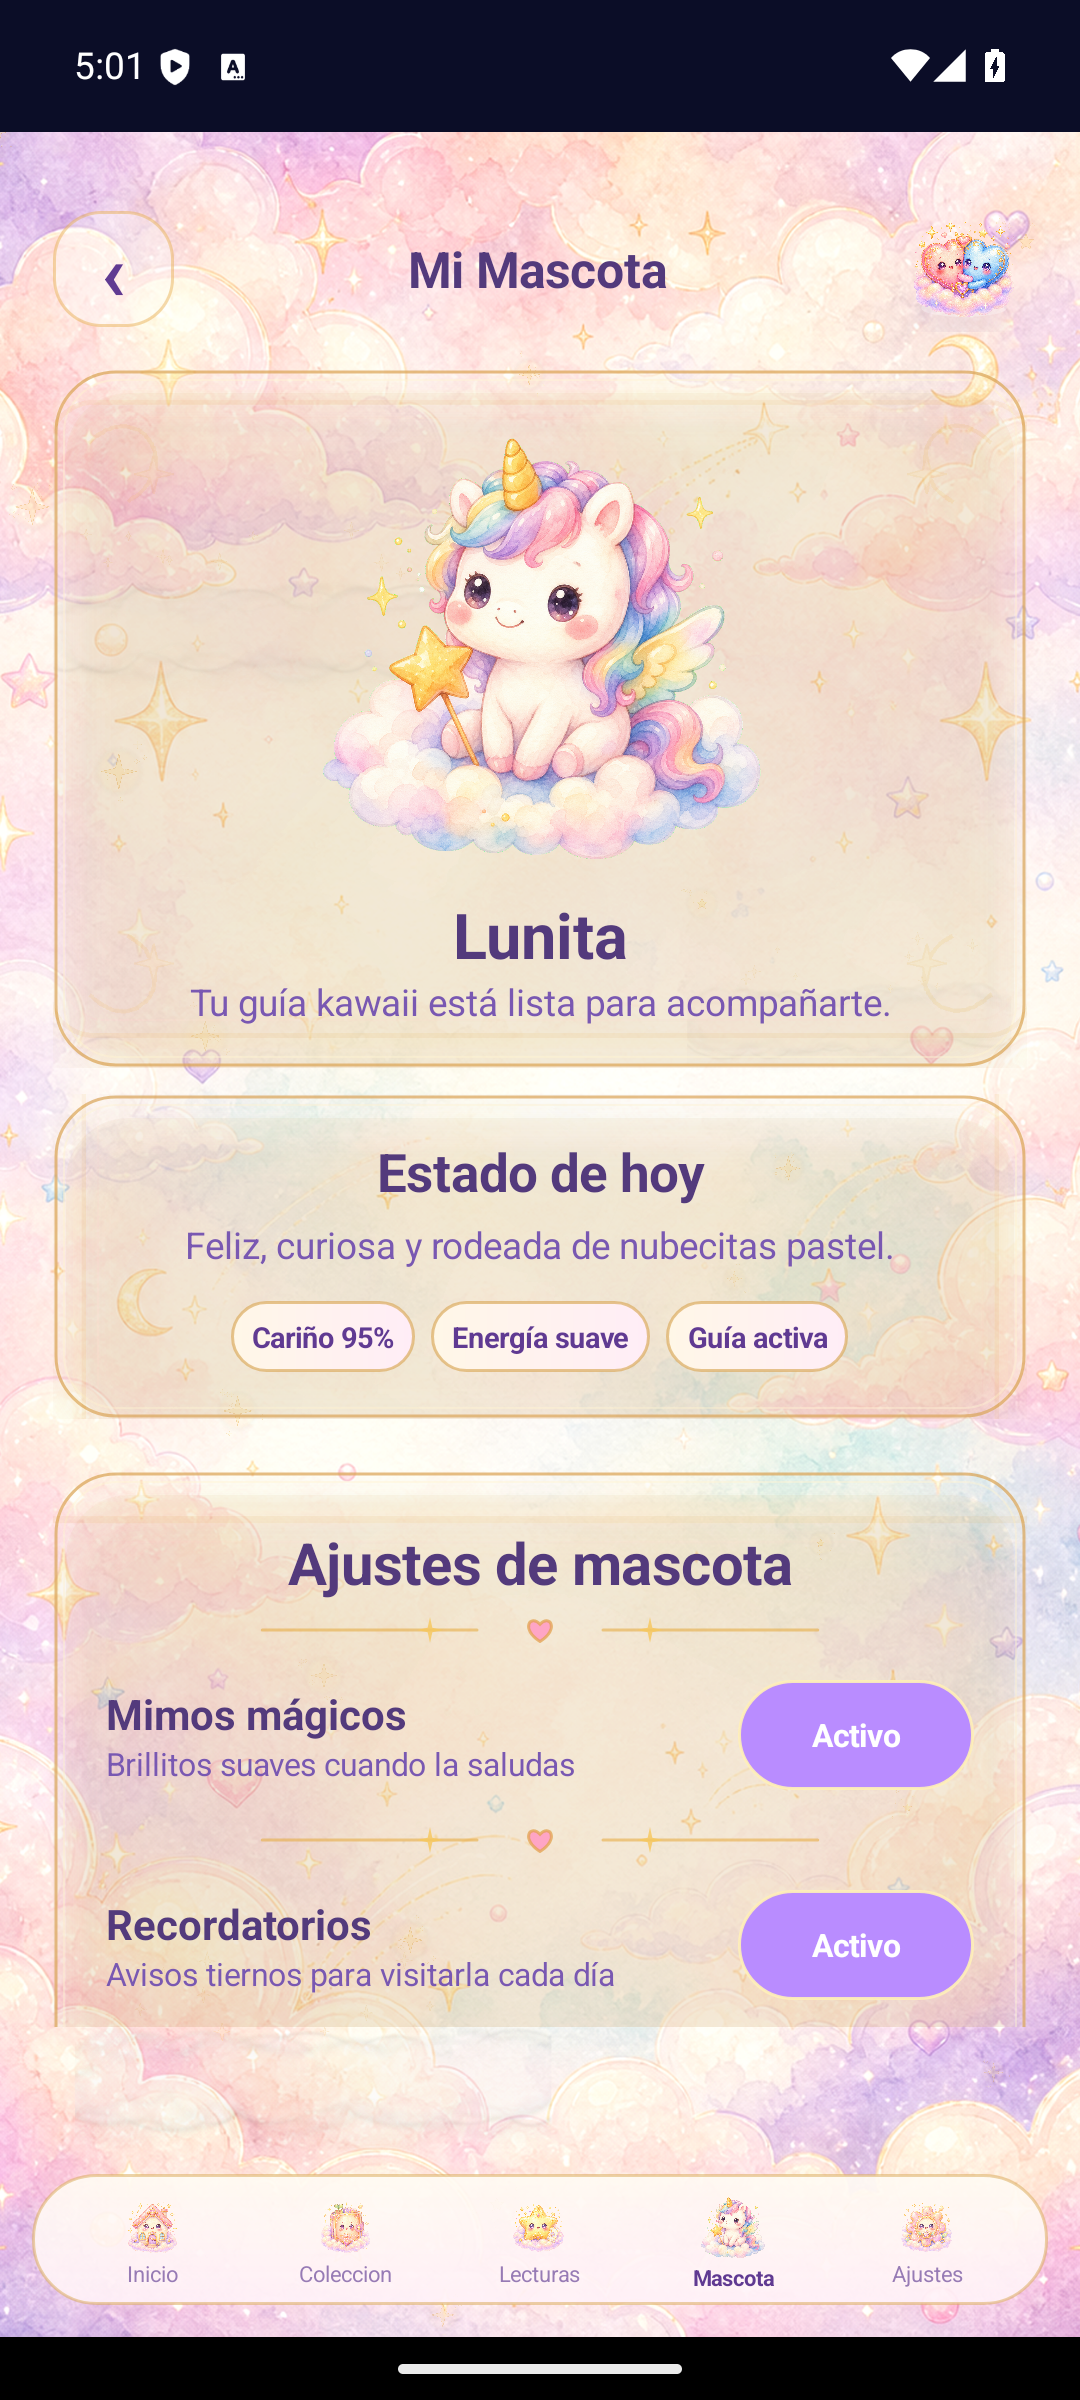
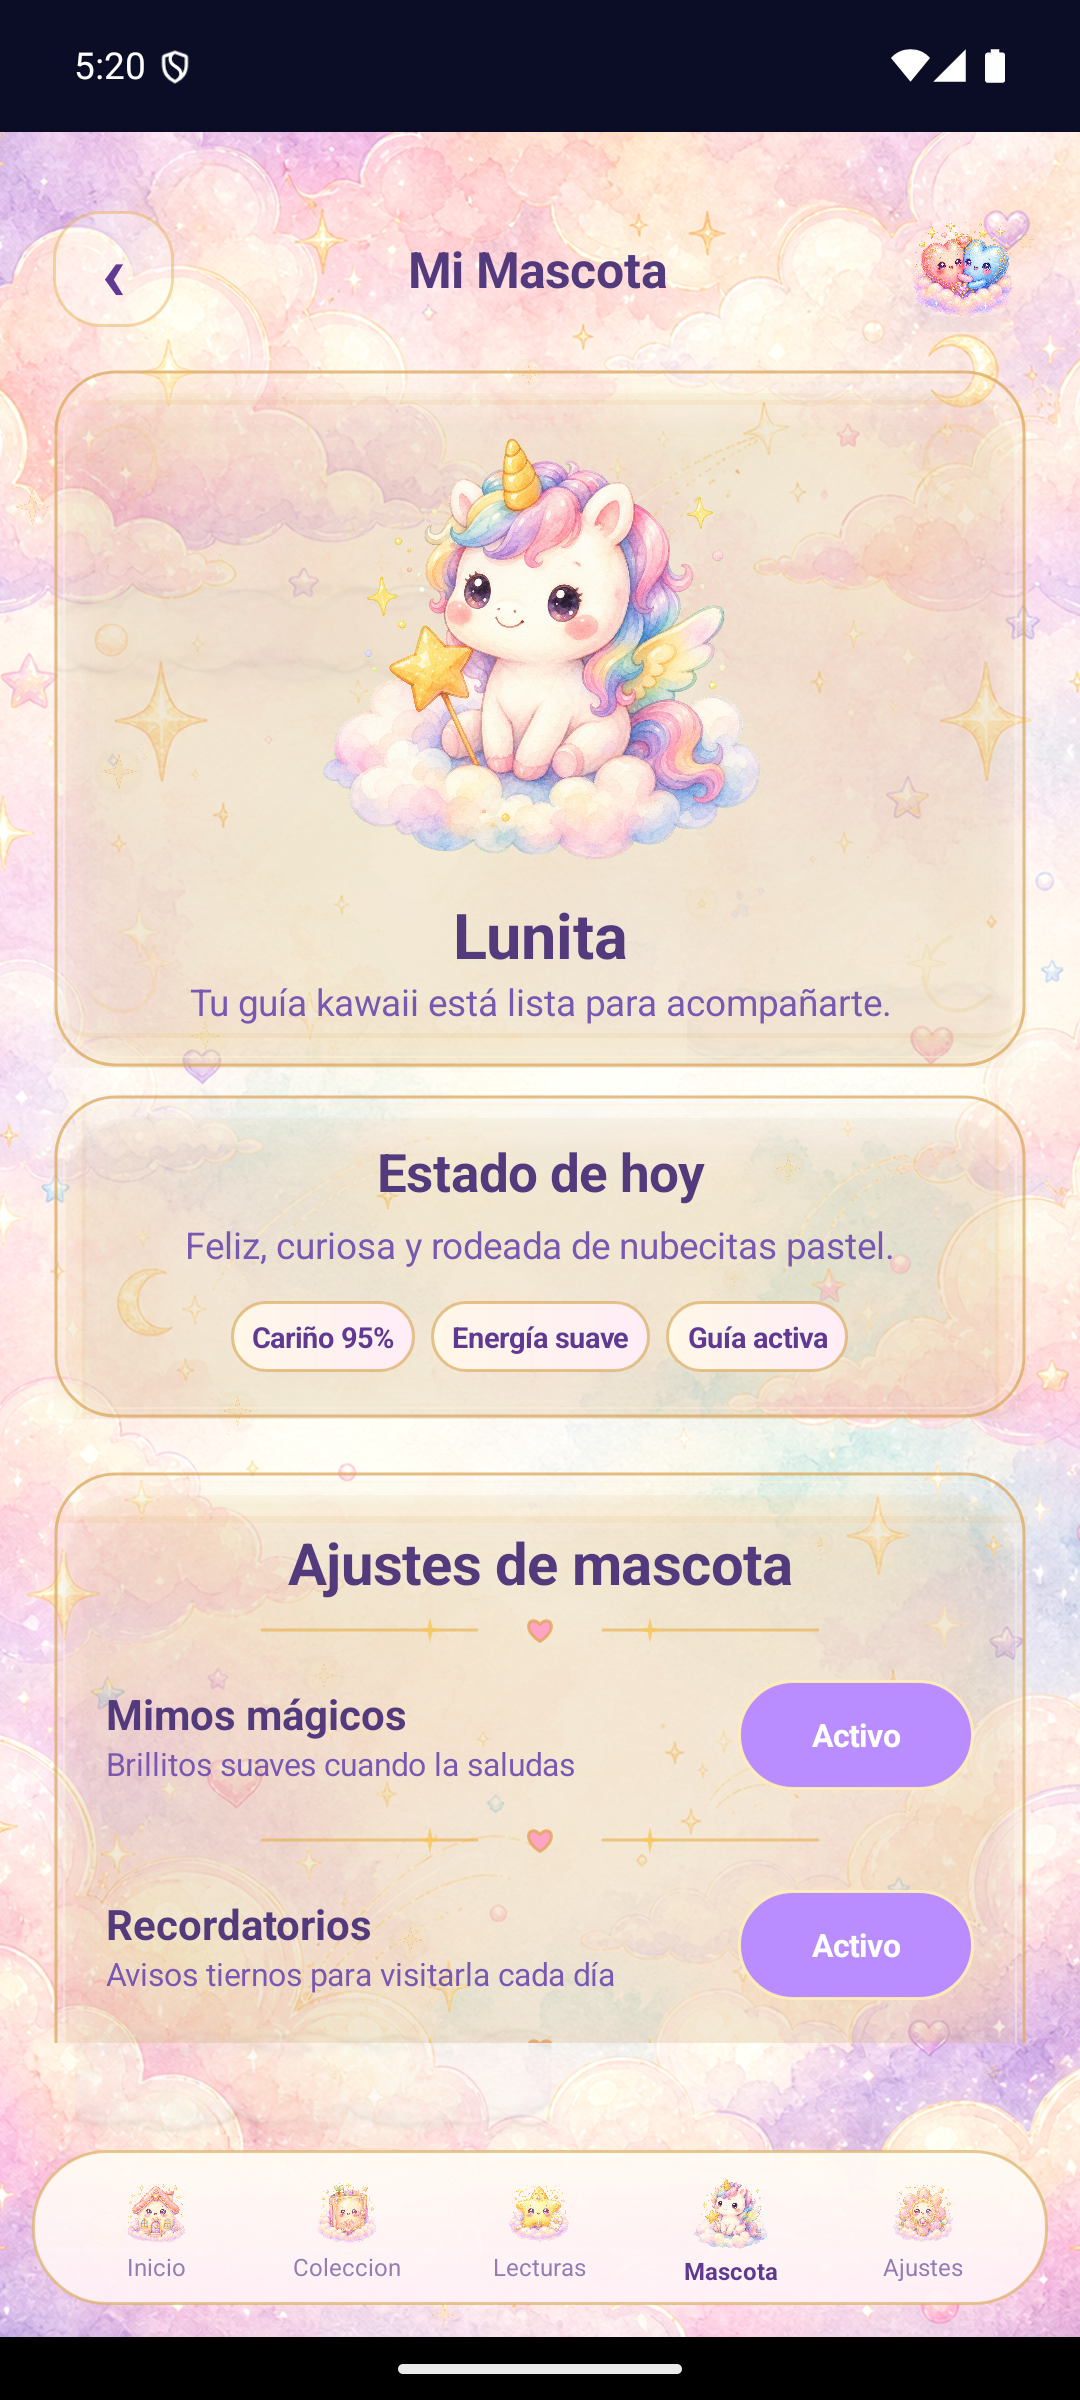
.
.

diff --git a/app/src/main/java/com/example/evaluacion4charlottegabriel/MainActivity.java b/app/src/main/java/com/example/evaluacion4charlottegabriel/MainActivity.java
@@ -35,17 +35,17 @@ public class MainActivity extends AppCompatActivity {
         scaffold.setQuietHomeBackground(true);
         scaffold.setBottomNav(DreamBottomNav.HOME, true);
         LinearLayout root = scaffold.content();
-        root.setPadding(DreamUi.dp(this, 6), DreamUi.dp(this, 34),
-                DreamUi.dp(this, 6), DreamUi.dp(this, 12));
+        root.setPadding(DreamUi.dp(this, 6), DreamUi.dp(this, 32),
+                DreamUi.dp(this, 6), DreamUi.dp(this, 10));
 
         addHeader(root);
 
-        TextView greeting = DreamUi.text(this, "\u00a1Hola, Charlotte! \u2728", 18, DreamColors.INK, Typeface.BOLD);
+        TextView greeting = DreamUi.text(this, "\u00a1Hola, Charlotte! \u2728", 20, DreamColors.INK, Typeface.BOLD);
         greeting.setGravity(Gravity.CENTER);
         greeting.setIncludeFontPadding(false);
         add(root, greeting, 7, 5);
 
-        TextView subtitle = DreamUi.text(this, "\u00bfQu\u00e9 mensaje m\u00e1gico\nte espera hoy?", 12, DreamColors.DEEP, Typeface.BOLD);
+        TextView subtitle = DreamUi.text(this, "\u00bfQu\u00e9 mensaje m\u00e1gico\nte espera hoy?", 13.2f, DreamColors.DEEP, Typeface.BOLD);
         subtitle.setGravity(Gravity.CENTER);
         subtitle.setIncludeFontPadding(false);
         subtitle.setLineSpacing(DreamUi.dp(this, 2), 1f);
@@ -88,18 +88,18 @@ public class MainActivity extends AppCompatActivity {
         header.setGravity(Gravity.CENTER_VERTICAL);
         header.setPadding(0, 0, 0, 0);
 
-        TextView menu = DreamUi.text(this, "\u2630", 18, 0xd65f3b98, Typeface.NORMAL);
+        TextView menu = DreamUi.text(this, "\u2630", 19.5f, 0xd65f3b98, Typeface.NORMAL);
         menu.setGravity(Gravity.CENTER);
         menu.setIncludeFontPadding(false);
-        header.addView(menu, new LinearLayout.LayoutParams(DreamUi.dp(this, 30), DreamUi.dp(this, 30)));
+        header.addView(menu, new LinearLayout.LayoutParams(DreamUi.dp(this, 34), DreamUi.dp(this, 34)));
 
         View spacer = new View(this);
         header.addView(spacer, new LinearLayout.LayoutParams(0, 1, 1f));
 
-        TextView bell = DreamUi.text(this, "\ud83d\udd14", 14, 0xd65f3b98, Typeface.NORMAL);
+        TextView bell = DreamUi.text(this, "\ud83d\udd14", 15.5f, 0xd65f3b98, Typeface.NORMAL);
         bell.setGravity(Gravity.CENTER);
         bell.setIncludeFontPadding(false);
-        header.addView(bell, new LinearLayout.LayoutParams(DreamUi.dp(this, 30), DreamUi.dp(this, 30)));
+        header.addView(bell, new LinearLayout.LayoutParams(DreamUi.dp(this, 34), DreamUi.dp(this, 34)));
         add(root, header, 0, 0);
     }
 
@@ -126,19 +126,19 @@ public class MainActivity extends AppCompatActivity {
         LinearLayout row = new LinearLayout(this);
         row.setOrientation(LinearLayout.HORIZONTAL);
         row.setGravity(Gravity.CENTER_VERTICAL);
-        row.setPadding(DreamUi.dp(this, 10), DreamUi.dp(this, 7), DreamUi.dp(this, 10), DreamUi.dp(this, 7));
+        row.setPadding(DreamUi.dp(this, 11), DreamUi.dp(this, 8), DreamUi.dp(this, 11), DreamUi.dp(this, 8));
 
         ImageView star = cardImage(R.drawable.home_star_icon);
-        row.addView(star, new LinearLayout.LayoutParams(DreamUi.dp(this, 55), DreamUi.dp(this, 55)));
+        row.addView(star, new LinearLayout.LayoutParams(DreamUi.dp(this, 61), DreamUi.dp(this, 61)));
 
         LinearLayout copy = new LinearLayout(this);
         copy.setOrientation(LinearLayout.VERTICAL);
         copy.setGravity(Gravity.CENTER);
-        TextView title = DreamUi.text(this, "Carta del D\u00eda", 15, DreamColors.INK, Typeface.BOLD);
+        TextView title = DreamUi.text(this, "Carta del D\u00eda", 16.5f, DreamColors.INK, Typeface.BOLD);
         title.setGravity(Gravity.CENTER);
         title.setIncludeFontPadding(false);
         copy.addView(title);
-        TextView body = DreamUi.text(this, "Descubre el mensaje\nque el universo tiene para ti.", 9.5f, DreamColors.DEEP, Typeface.BOLD);
+        TextView body = DreamUi.text(this, "Descubre el mensaje\nque el universo tiene para ti.", 10.4f, DreamColors.DEEP, Typeface.BOLD);
         body.setGravity(Gravity.CENTER);
         body.setIncludeFontPadding(false);
         body.setLineSpacing(DreamUi.dp(this, 1), 1f);
@@ -148,14 +148,14 @@ public class MainActivity extends AppCompatActivity {
         row.addView(copy, copyParams);
 
         ImageView flame = cardImage(R.drawable.icon_carta_dia);
-        row.addView(flame, new LinearLayout.LayoutParams(DreamUi.dp(this, 58), DreamUi.dp(this, 58)));
+        row.addView(flame, new LinearLayout.LayoutParams(DreamUi.dp(this, 64), DreamUi.dp(this, 64)));
         panel.addView(row, new FrameLayout.LayoutParams(
                 ViewGroup.LayoutParams.MATCH_PARENT,
                 ViewGroup.LayoutParams.MATCH_PARENT));
 
         LinearLayout.LayoutParams params = new LinearLayout.LayoutParams(
-                ViewGroup.LayoutParams.MATCH_PARENT, DreamUi.dp(this, 72));
-        params.setMargins(0, DreamUi.dp(this, 1), 0, DreamUi.dp(this, 8));
+                ViewGroup.LayoutParams.MATCH_PARENT, DreamUi.dp(this, 80));
+        params.setMargins(0, 0, 0, DreamUi.dp(this, 7));
         root.addView(panel, params);
     }
 
@@ -165,8 +165,8 @@ public class MainActivity extends AppCompatActivity {
         panel.setGravity(Gravity.CENTER_VERTICAL);
         panel.setClickable(true);
         panel.setOnClickListener(click);
-        panel.setMinimumHeight(DreamUi.dp(this, 86));
-        panel.setPadding(DreamUi.dp(this, 10), DreamUi.dp(this, 8), DreamUi.dp(this, 8), DreamUi.dp(this, 8));
+        panel.setMinimumHeight(DreamUi.dp(this, 96));
+        panel.setPadding(DreamUi.dp(this, 12), DreamUi.dp(this, 9), DreamUi.dp(this, 9), DreamUi.dp(this, 9));
         panel.setElevation(DreamUi.dp(this, 2));
         GradientDrawable bg = new GradientDrawable(GradientDrawable.Orientation.TOP_BOTTOM,
                 new int[]{DreamUi.blend(tint, 0xffffffff, .34f), 0xfffffbf7});
@@ -178,11 +178,11 @@ public class MainActivity extends AppCompatActivity {
         copy.setOrientation(LinearLayout.VERTICAL);
         copy.setGravity(Gravity.CENTER_VERTICAL);
 
-        TextView titleView = DreamUi.text(this, title, 12.5f, DreamColors.INK, Typeface.BOLD);
+        TextView titleView = DreamUi.text(this, title, 13.8f, DreamColors.INK, Typeface.BOLD);
         titleView.setGravity(Gravity.START);
         titleView.setIncludeFontPadding(false);
         copy.addView(titleView);
-        TextView sub = DreamUi.text(this, subtitle, 7.8f, DreamColors.DEEP, Typeface.BOLD);
+        TextView sub = DreamUi.text(this, subtitle, 8.7f, DreamColors.DEEP, Typeface.BOLD);
         sub.setGravity(Gravity.START);
         sub.setIncludeFontPadding(false);
         sub.setLineSpacing(DreamUi.dp(this, 1), 1f);
@@ -190,13 +190,13 @@ public class MainActivity extends AppCompatActivity {
         panel.addView(copy, new LinearLayout.LayoutParams(0, ViewGroup.LayoutParams.WRAP_CONTENT, 1f));
 
         ImageView icon = cardImage(iconRes);
-        LinearLayout.LayoutParams iconParams = new LinearLayout.LayoutParams(DreamUi.dp(this, 50), DreamUi.dp(this, 50));
+        LinearLayout.LayoutParams iconParams = new LinearLayout.LayoutParams(DreamUi.dp(this, 57), DreamUi.dp(this, 57));
         iconParams.leftMargin = DreamUi.dp(this, 3);
         panel.addView(icon, iconParams);
 
         GridLayout.LayoutParams params = new GridLayout.LayoutParams();
         params.width = 0;
-        params.height = DreamUi.dp(this, 90);
+        params.height = DreamUi.dp(this, 101);
         params.columnSpec = GridLayout.spec(GridLayout.UNDEFINED, 1f);
         params.setMargins(DreamUi.dp(this, 3), DreamUi.dp(this, 3), DreamUi.dp(this, 3), DreamUi.dp(this, 3));
         grid.addView(panel, params);
@@ -212,8 +212,8 @@ public class MainActivity extends AppCompatActivity {
 
     private void addHero(LinearLayout parent, ImageView child) {
         LinearLayout.LayoutParams params = new LinearLayout.LayoutParams(
-                ViewGroup.LayoutParams.MATCH_PARENT, DreamUi.dp(this, 188));
-        params.setMargins(0, DreamUi.dp(this, 42), 0, DreamUi.dp(this, 2));
+                ViewGroup.LayoutParams.MATCH_PARENT, DreamUi.dp(this, 205));
+        params.setMargins(0, DreamUi.dp(this, 36), 0, DreamUi.dp(this, 1));
         parent.addView(child, params);
     }
 

diff --git a/app/src/main/java/com/example/evaluacion4charlottegabriel/ui/DreamBottomNav.java b/app/src/main/java/com/example/evaluacion4charlottegabriel/ui/DreamBottomNav.java
@@ -29,9 +29,9 @@ public class DreamBottomNav extends GlassPanel {
         super(context);
         setOrientation(HORIZONTAL);
         setGravity(Gravity.CENTER);
-        setPadding(DreamUi.dp(context, compact ? 8 : 9), DreamUi.dp(context, compact ? 4 : 5),
-                DreamUi.dp(context, compact ? 8 : 9), DreamUi.dp(context, compact ? 4 : 5));
-        setElevation(DreamUi.dp(context, compact ? 2 : 3));
+        setPadding(DreamUi.dp(context, compact ? 10 : 11), DreamUi.dp(context, compact ? 6 : 7),
+                DreamUi.dp(context, compact ? 10 : 11), DreamUi.dp(context, compact ? 6 : 7));
+        setElevation(DreamUi.dp(context, 4));
         setBackground(makeNavBg(context, compact));
         addItem(context, "Inicio", R.drawable.icon_inicio, active == HOME, v -> {
             if (active != HOME) TarotNavigator.openHome(context);
@@ -62,10 +62,10 @@ public class DreamBottomNav extends GlassPanel {
         icon.setImageResource(iconRes);
         icon.setScaleType(ImageView.ScaleType.FIT_CENTER);
         icon.setAlpha(active ? 1f : .88f);
-        int iconSize = DreamUi.dp(context, compact ? (active ? 23 : 21) : (active ? 27 : 24));
+        int iconSize = DreamUi.dp(context, compact ? (active ? 29 : 26) : (active ? 31 : 28));
         item.addView(icon, new LinearLayout.LayoutParams(iconSize, iconSize));
 
-        TextView text = DreamUi.text(context, label, compact ? 7.5f : 8.2f, active ? DreamColors.LILAC_DARK : DreamColors.MUTED, active ? Typeface.BOLD : Typeface.NORMAL);
+        TextView text = DreamUi.text(context, label, compact ? 8.6f : 9.2f, active ? DreamColors.LILAC_DARK : DreamColors.MUTED, active ? Typeface.BOLD : Typeface.NORMAL);
         text.setGravity(Gravity.CENTER);
         text.setShadowLayer(DreamUi.dp(context, 3), 0, DreamUi.dp(context, 1), 0x66ffffff);
         item.addView(text);
@@ -76,9 +76,9 @@ public class DreamBottomNav extends GlassPanel {
 
     private GradientDrawable makeNavBg(Context context, boolean compact) {
         GradientDrawable bg = new GradientDrawable(GradientDrawable.Orientation.TOP_BOTTOM,
-                compact ? new int[]{0xdffff9f6, 0xd9fff0f8} : new int[]{0xeafffbf3, 0xe8fff1f8});
-        bg.setCornerRadius(DreamUi.dp(context, compact ? 18 : 24));
-        bg.setStroke(DreamUi.dp(context, 1), compact ? 0x80ddb066 : 0x8fddb066);
+                compact ? new int[]{0xeffffbf4, 0xeafff1f8} : new int[]{0xf0fffbf3, 0xecfff1f8});
+        bg.setCornerRadius(DreamUi.dp(context, 28));
+        bg.setStroke(DreamUi.dp(context, 1), compact ? 0xa0ddb066 : 0xaeddb066);
         return bg;
     }
 }

diff --git a/app/src/main/java/com/example/evaluacion4charlottegabriel/ui/CollectionCard.java b/app/src/main/java/com/example/evaluacion4charlottegabriel/ui/CollectionCard.java
@@ -16,7 +16,7 @@ public class CollectionCard extends GlassPanel {
     public CollectionCard(Context context, int firebaseId, String label, boolean unlocked, String rarity) {
         super(context);
         setGravity(Gravity.CENTER);
-        setPadding(DreamUi.dp(context, 8), DreamUi.dp(context, 8), DreamUi.dp(context, 8), DreamUi.dp(context, 10));
+        setPadding(DreamUi.dp(context, 7), DreamUi.dp(context, 7), DreamUi.dp(context, 7), DreamUi.dp(context, 9));
         FrameLayout art = new FrameLayout(context);
         ImageView image = new ImageView(context);
         image.setScaleType(ImageView.ScaleType.FIT_CENTER);
@@ -40,21 +40,21 @@ public class CollectionCard extends GlassPanel {
             lock.setAlpha(.92f);
             lock.setScaleType(ImageView.ScaleType.FIT_CENTER);
             art.addView(lock, new FrameLayout.LayoutParams(
-                    DreamUi.dp(context, 58),
-                    DreamUi.dp(context, 58),
+                    DreamUi.dp(context, 52),
+                    DreamUi.dp(context, 52),
                     Gravity.CENTER));
         }
         addView(art, new LinearLayout.LayoutParams(
                 ViewGroup.LayoutParams.MATCH_PARENT,
-                DreamUi.dp(context, 154)));
+                DreamUi.dp(context, 136)));
 
-        TextView title = DreamUi.text(context, unlocked ? label : "Carta dormida", 11, DreamColors.INK, Typeface.BOLD);
+        TextView title = DreamUi.text(context, unlocked ? label : "Carta dormida", 10.2f, DreamColors.INK, Typeface.BOLD);
         title.setGravity(Gravity.CENTER);
         addView(title, new LinearLayout.LayoutParams(
                 ViewGroup.LayoutParams.MATCH_PARENT,
                 ViewGroup.LayoutParams.WRAP_CONTENT));
 
-        TextView rare = DreamUi.text(context, rarity, 10, unlocked ? DreamColors.GOLD : DreamColors.MUTED, Typeface.BOLD);
+        TextView rare = DreamUi.text(context, rarity, 9.4f, unlocked ? DreamColors.GOLD : DreamColors.MUTED, Typeface.BOLD);
         rare.setGravity(Gravity.CENTER);
         addView(rare, new LinearLayout.LayoutParams(
                 ViewGroup.LayoutParams.MATCH_PARENT,

diff --git a/app/src/main/java/com/example/evaluacion4charlottegabriel/ui/TarotScaffold.java b/app/src/main/java/com/example/evaluacion4charlottegabriel/ui/TarotScaffold.java
@@ -55,13 +55,13 @@ public class TarotScaffold extends FrameLayout {
         bottomNav = new DreamBottomNav(getContext(), active, compact);
         ViewGroup.LayoutParams scrollParams = scrollView.getLayoutParams();
         if (scrollParams instanceof MarginLayoutParams) {
-            ((MarginLayoutParams) scrollParams).bottomMargin = DreamUi.dp(getContext(), compact ? 86 : 118);
+            ((MarginLayoutParams) scrollParams).bottomMargin = DreamUi.dp(getContext(), compact ? 104 : 112);
             scrollView.setLayoutParams(scrollParams);
         }
         LayoutParams params = new LayoutParams(
                 ViewGroup.LayoutParams.MATCH_PARENT,
                 ViewGroup.LayoutParams.WRAP_CONTENT);
-        int margin = DreamUi.dp(getContext(), compact ? 4 : 12);
+        int margin = DreamUi.dp(getContext(), compact ? 8 : 12);
         params.setMargins(margin, 0, margin, margin);
         params.gravity = android.view.Gravity.BOTTOM;
         addView(bottomNav, params);

diff --git a/app/src/main/java/com/example/evaluacion4charlottegabriel/CollectionActivity.java b/app/src/main/java/com/example/evaluacion4charlottegabriel/CollectionActivity.java
@@ -174,7 +174,7 @@ public class CollectionActivity extends AppCompatActivity {
             card.setClickable(true);
             addCard(grid, card);
         }
-        add(root, grid, 0, 0);
+        add(root, grid, 0, 18);
         setContentView(scaffold);
     }
 
@@ -219,7 +219,7 @@ public class CollectionActivity extends AppCompatActivity {
         params.width = 0;
         params.height = ViewGroup.LayoutParams.WRAP_CONTENT;
         params.columnSpec = GridLayout.spec(GridLayout.UNDEFINED, 1f);
-        params.setMargins(DreamUi.dp(this, 4), DreamUi.dp(this, 4), DreamUi.dp(this, 4), DreamUi.dp(this, 8));
+        params.setMargins(DreamUi.dp(this, 5), DreamUi.dp(this, 5), DreamUi.dp(this, 5), DreamUi.dp(this, 10));
         grid.addView(card, params);
     }
 
